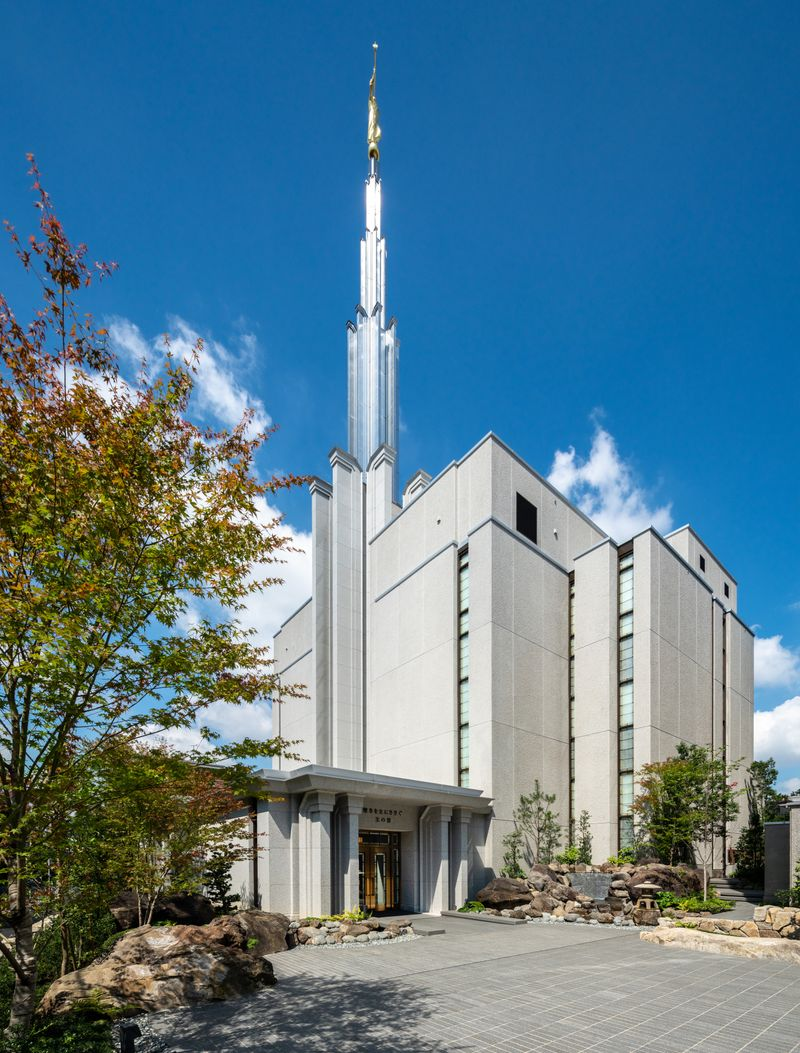
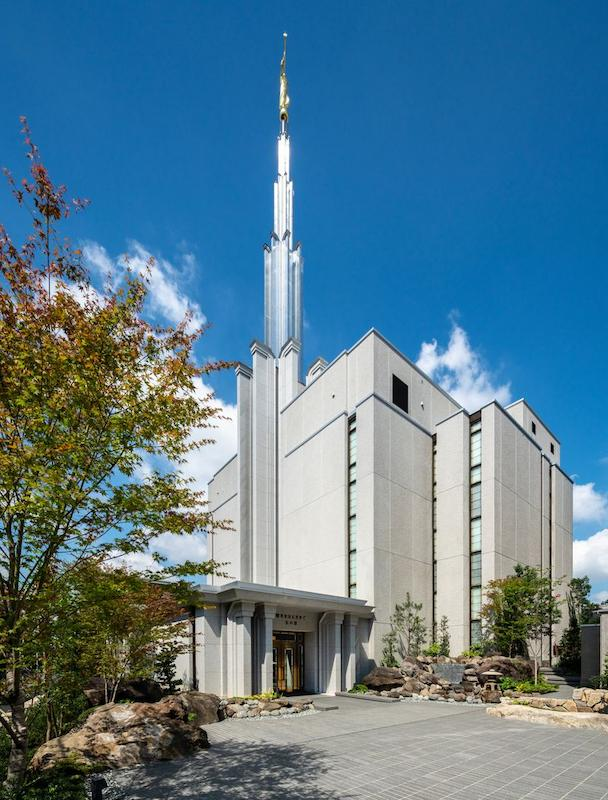
push

diff --git a/temples.html b/temples.html
@@ -3,10 +3,12 @@
 <head>
     <meta charset="UTF-8">
     <meta name="viewport" content="width=device-width, initial-scale=1.0">
+    <meta name="description" content="WDD 131 - Dynamic Web Fundamentals by Tomás Lo Giudice">
+    <meta name="author" content="Tomás Lo Giudice">
     <link rel="stylesheet" href="styles/temples.css">
     <link rel="stylesheet" href="styles/temples-large.css">
     <script src="scripts/temples.js"></script>
-    <title>Temples</title>
+    <title>Temples Images</title>
 </head>
 <body>
     <header>